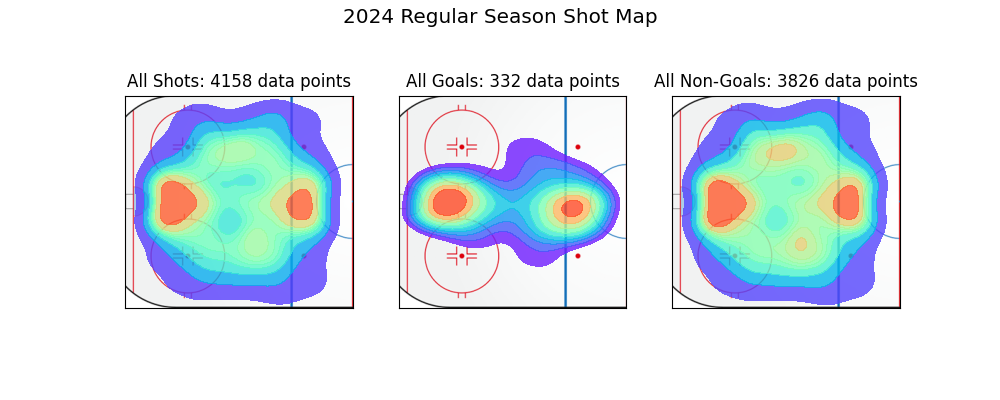
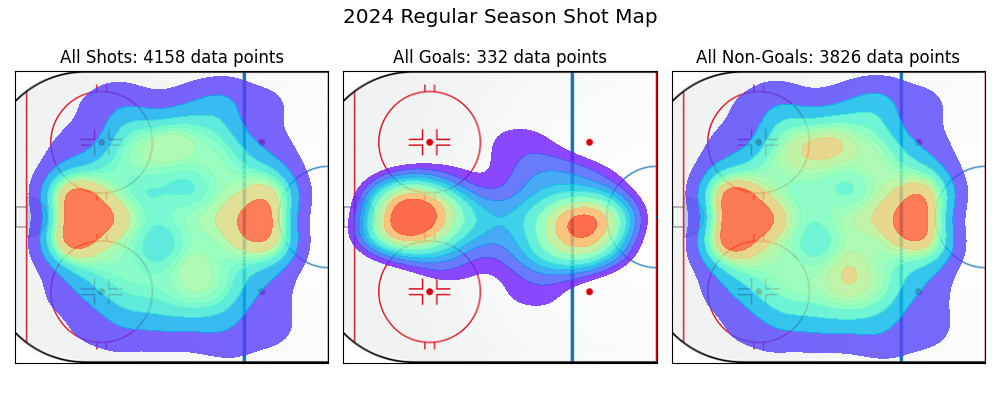
figured out why the image saved didn't look like the one presented

diff --git a/shots-heatmap/shots-heatmap.py b/shots-heatmap/shots-heatmap.py
@@ -70,9 +70,10 @@ graph_nongoals.imshow(map_image,
 axes[2].set_title(f"All Non-Goals: {len(pd_nongoals)} data points")
 
 
-plt.savefig(fname="shots-heatmap/shots-heatmap.png")
-# i like how it looks with tight_layout, and then show it!
+# i like how it looks with tight_layout, so save it and then show it!
 plt.tight_layout()
+plt.savefig(fname="shots-heatmap/shots-heatmap.png")
+
 plt.show()
 
 
